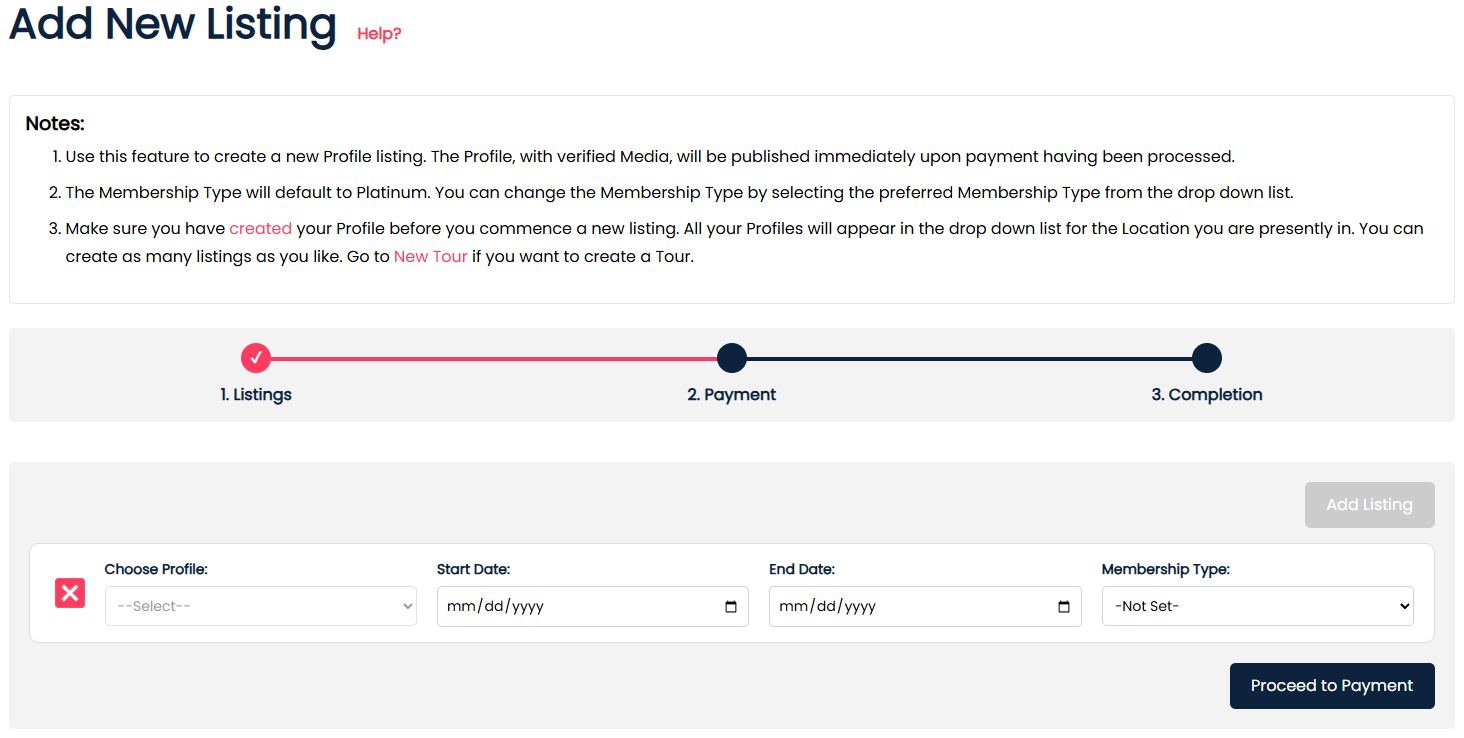
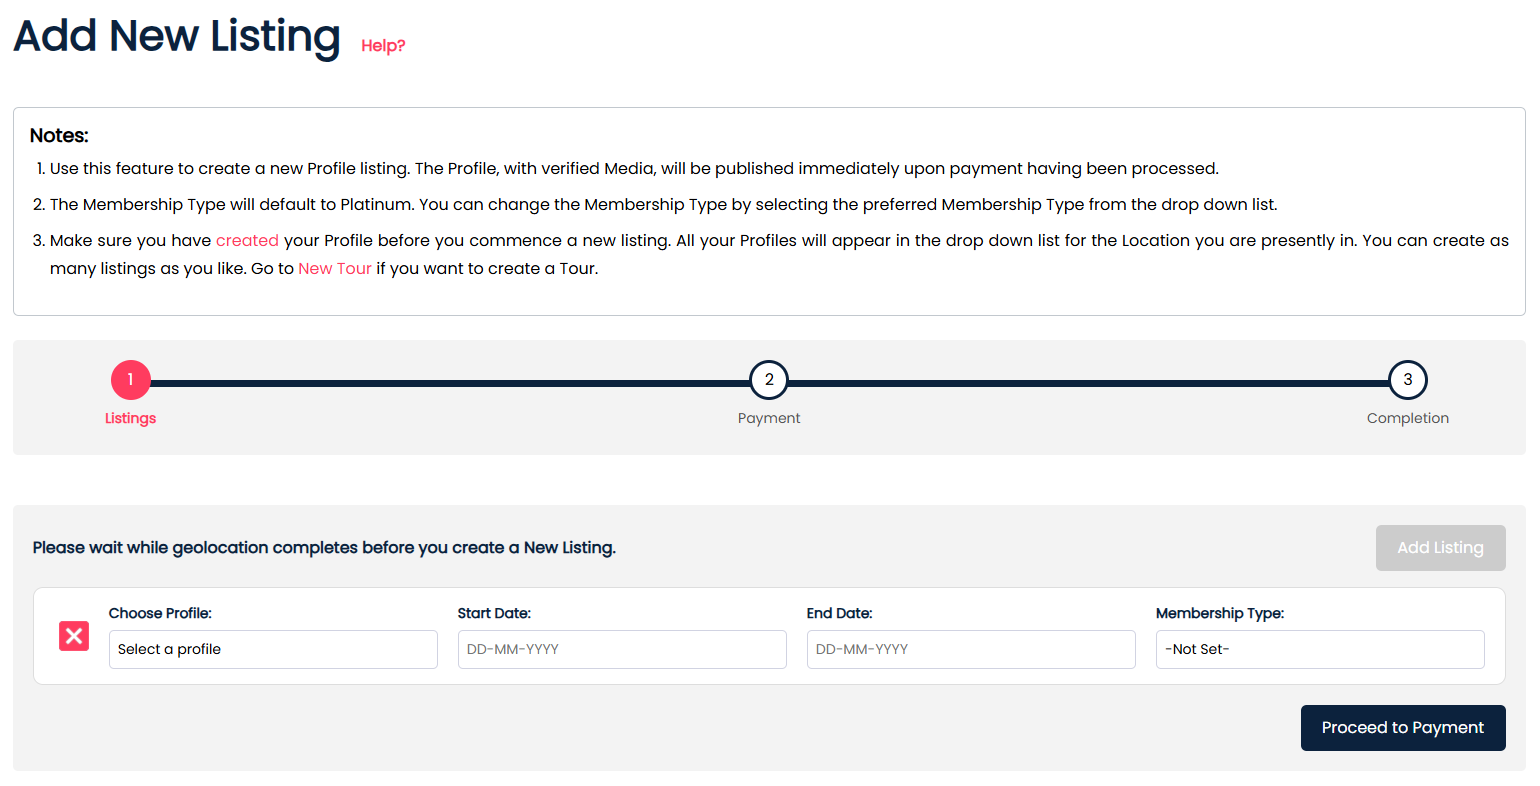
Feedback: Update EC and MC Public profile listing cards

diff --git a/public/assets/app/css/style.css b/public/assets/app/css/style.css
@@ -2690,7 +2690,7 @@ i.fa.fa-heart-o{
 
 .five_column_content_top {
     color: white;
-    background: rgb(12, 34, 61, 0.5);
+    background-color: rgb(12, 34, 61, 0.3);
     position: absolute;
     top: 0;
     height: 40px;
@@ -2709,7 +2709,7 @@ i.fa.fa-heart-o{
 
 .six_column_content_top {
     color: white;
-    background: rgb(12, 34, 61, 0.5);
+    background-color: rgb(12, 34, 61, 0.3);
     position: absolute;
     top: 0;
     height: 40px;
@@ -2745,7 +2745,7 @@ i.fa.fa-heart-o{
 
 .seven_column_content_top {
     color: white;
-    background: rgb(12, 34, 61, 0.5);
+    background-color: rgb(12, 34, 61, 0.3);
     position: absolute;
     top: 0;
     width: 100%;
@@ -2760,7 +2760,7 @@ i.fa.fa-heart-o{
 
 .five_column_bottom_content {
     color: white;
-    background: rgba(170, 170, 170, 0.8);
+    background-color: rgba(170, 170, 170, 0.7);
     position: absolute;
     bottom: -100px;
     left: 0;
@@ -2772,7 +2772,7 @@ i.fa.fa-heart-o{
 
 .six_column_bottom_content {
     color: white;
-    background: rgba(170, 170, 170, 0.8);
+    background: rgba(170, 170, 170, 0.7);
     position: absolute;
     bottom: -100px;
     left: 0;
@@ -2791,7 +2791,7 @@ i.fa.fa-heart-o{
 
 .seven_column_bottom_content {
     color: white;
-    background: rgba(170, 170, 170, 0.8);
+    background: rgba(170, 170, 170, 0.7);
     position: absolute;
     bottom: -100px;
     left: 0;
@@ -2810,7 +2810,7 @@ i.fa.fa-heart-o{
 
 .nine_column_content_top {
     color: white;
-    background: rgba(170 170 170 / 80%);
+    background: rgba(170 170 170 / 70%);
     position: absolute;
     top: 0;
     height: 24px;
@@ -2826,7 +2826,7 @@ i.fa.fa-heart-o{
 
 .content_bottom_and_padding_all_side_nine_col {
     color: white;
-    background: rgba(170 170 170 / 80%);
+    background: rgba(170 170 170 / 70%);
     position: absolute;
     bottom: -31px;
     left: 0;
@@ -6531,7 +6531,7 @@ table {
 }
 
 .mc_card_header {
-    background-color: rgba(12, 34, 61, 0.5);
+    background-color: rgb(12, 34, 61, 0.3);
     padding: 10px;
     display: flex;
     justify-content: space-between;
@@ -6542,7 +6542,7 @@ table {
 }
 
 .mc_card_content {
-    background-color: rgba(170, 170, 170, 0.9);
+    background-color: rgba(170, 170, 170, 0.7);
     padding: 10px;
     position: absolute;
     width: 100%;
